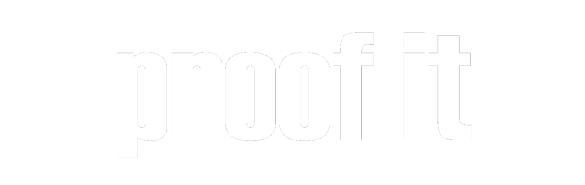
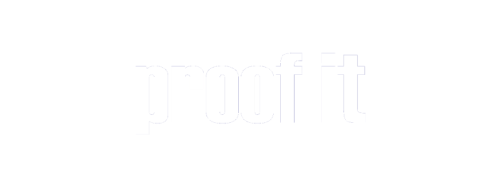
fixed sponsor widget

diff --git a/widgets/backer/backer.scss b/widgets/backer/backer.scss
@@ -1,0 +1,20 @@
+// ----------------------------------------------------------------------------
+// Sass declarations
+// ----------------------------------------------------------------------------
+$background-color:  #eb9c3c;
+
+$title-color:       rgba(255, 255, 255, 0.7);
+$moreinfo-color:    rgba(255, 255, 255, 0.7);
+
+// ----------------------------------------------------------------------------
+// Widget-backer styles
+// ----------------------------------------------------------------------------
+.widget-backer {
+
+  background-color: $background-color;
+
+  img {
+    max-width: 585px;
+  }
+
+}

diff --git a/widgets/backer/backer.html b/widgets/backer/backer.html
@@ -1,0 +1,3 @@
+<div class="backer-container">
+  <h2><img data-bind-src="current_backer | default 'empty' | prepend '/assets/sponsors/' | append '.png'"/></h2>
+</div>
